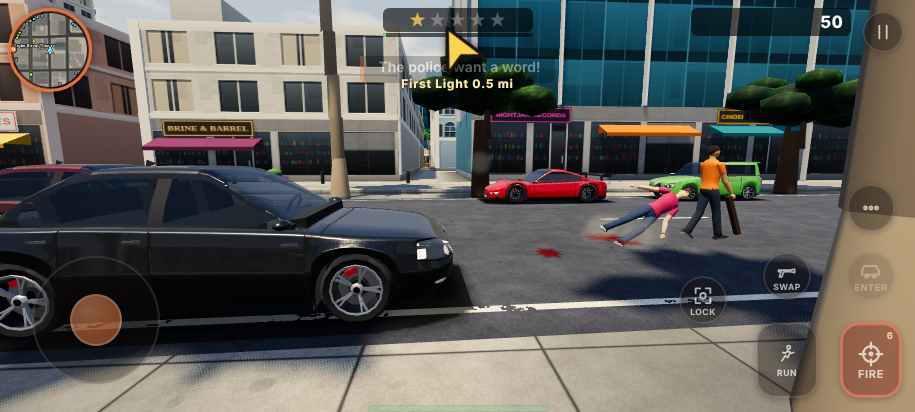
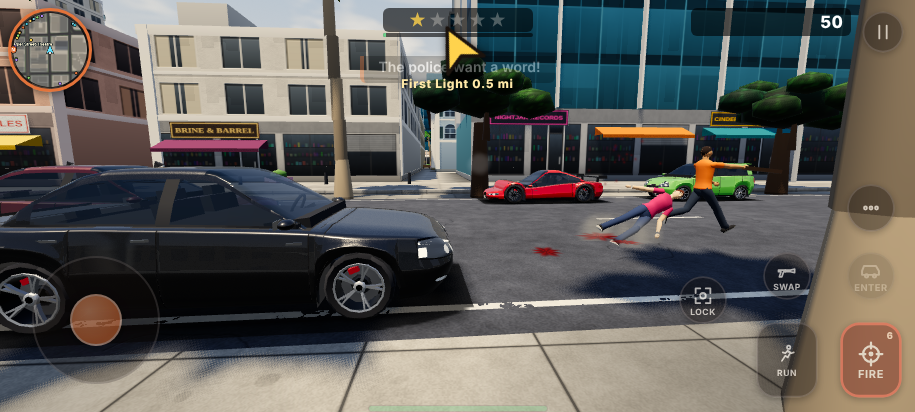
[wip] 0.5.0 work in progress
Claude-Session: https://claude.ai/code/session_018iGo17mtLFKMHzBd1Cq3Kh

diff --git a/src/render/carbody.js b/src/render/carbody.js
@@ -83,9 +83,9 @@ const STYLES = {
   },
   // Low mid-engine wedge: the cabin sits forward, wide hips, a wing.
   sports: {
-    pF: 4.5, pR: 6, flare: 0.06, q: 3.0, lean: [0.06, 0.04, 0.05, 0.1],
-    top: [[-0.5, 0.54], [-0.49, 0.6], [-0.46, 0.63], [-0.4, 0.64], [-0.3, 0.63], [-0.15, 0.6], [0.1, 0.5], [0.25, 0.46], [0.38, 0.42], [0.46, 0.38], [0.49, 0.34], [0.5, 0.3]],
-    belt: [[-0.5, 0.5], [-0.49, 0.57], [-0.46, 0.6], [-0.4, 0.61], [-0.25, 0.6], [-0.1, 0.57], [0.1, 0.48], [0.3, 0.43], [0.45, 0.36], [0.49, 0.32], [0.5, 0.28]],
+    pF: 4.5, pR: 6, flare: 0.06, q: 3.0, lean: [0.06, 0.04, 0.05, 0.1], valley: true,
+    top: [[-0.5, 0.54], [-0.49, 0.6], [-0.46, 0.63], [-0.4, 0.64], [-0.3, 0.63], [-0.15, 0.6], [0.1, 0.52], [0.25, 0.48], [0.38, 0.45], [0.46, 0.42], [0.49, 0.38], [0.5, 0.34]],
+    belt: [[-0.5, 0.5], [-0.49, 0.57], [-0.46, 0.6], [-0.4, 0.61], [-0.25, 0.6], [-0.1, 0.57], [0.1, 0.5], [0.3, 0.45], [0.45, 0.4], [0.49, 0.36], [0.5, 0.32]],
     bottom: [[-0.5, 0.2], [-0.46, 0.1], [0.44, 0.1], [0.5, 0.12]],
     gh: { xC: -0.33, xR0: -0.13, xR1: -0.02, xA: 0.2, roof: 1, base: 0.82, tumble: 0.55, crown: 0.03, side: [-0.27, 0.15], b: null, rear: true },
     seams: [0.15, -0.19], hood: 0.22, boot: -0.37, exhaust: { n: 2, z: 0.2 }, wing: true, skirt: true,
@@ -111,7 +111,7 @@ const STYLES = {
   // The secret car: a teardrop canopy far forward, a long tapering tail
   // with two fins.
   ghostwake: {
-    pF: 3.8, pR: 3.4, flare: 0.07, q: 2.8, lean: [0.05, 0.03, 0.06, 0.05],
+    pF: 3.8, pR: 3.4, flare: 0.07, q: 2.8, lean: [0.05, 0.03, 0.06, 0.05], valley: true,
     top: [[-0.5, 0.42], [-0.47, 0.5], [-0.4, 0.55], [-0.25, 0.58], [-0.1, 0.56], [0.1, 0.48], [0.3, 0.42], [0.45, 0.36], [0.5, 0.3]],
     belt: [[-0.5, 0.38], [-0.47, 0.46], [-0.4, 0.52], [-0.25, 0.55], [-0.1, 0.52], [0.1, 0.45], [0.3, 0.4], [0.45, 0.34], [0.5, 0.28]],
     bottom: [[-0.5, 0.18], [-0.45, 0.1], [0.44, 0.1], [0.5, 0.12]],
@@ -226,7 +226,10 @@ function shape(spec) {
   const ycBase = beltC ? (x) => beltC(x / L) * H
     : (x) => topC(x / L) * H - drop * Math.min(1, 0.4 + 0.6 * Math.min(1, planW(x) / (hw * 0.5)));
   const yc = (x) => Math.max(ycBase(x), need(x));
-  const top = beltC ? (x) => Math.max(topC(x / L) * H, yc(x) + 0.012) : (x) => Math.max(topC(x / L) * H, yc(x) - 0.1);
+  // S.valley: the bonnet may sit below the fender peaks (a dip between
+  // raised wheel arches) instead of being lifted with them.
+  const top = beltC ? (S.valley ? (x) => Math.max(topC(x / L) * H, ycBase(x) + 0.012, yc(x) - 0.2) : (x) => Math.max(topC(x / L) * H, yc(x) + 0.012))
+    : (x) => Math.max(topC(x / L) * H, yc(x) - 0.1);
   const bottom = (x) => {
     let y = botC(x / L) * H;
     for (const wx of wheels) {
@@ -392,7 +395,9 @@ function ghShape(sh) {
   const crown = g.crown * sh.H;
   const roofY = g.roof * sh.H - crown;
   const baseW = (x) => sh.planW(x) * sh.shoulder * g.base;
-  const baseY = (x) => surfY(sh, x, baseW(x)) - 0.03;
+  // On a valley bonnet the deck dips toward the middle: the glass starts
+  // at the lower of the two so no gap opens under the windscreen.
+  const baseY = (x) => Math.min(surfY(sh, x, baseW(x)), sh.top(x)) - 0.03;
   const yA = baseY(xA), yC = baseY(xC);
   const roofC = curve([
     [xC, yC], [xC + (xR0 - xC) * 0.5, yC + (roofY - yC) * 0.62], [xR0, roofY - 0.012],
@@ -662,7 +667,7 @@ const FACES = {
     plateF: 0.24, plateR: 0.45,
   },
   compact: {
-    head: { q: [0.42, 0.97], f: [0.6, 0.9], e: 3, slant: 0.12, taper: 0.5, bulge: 0.01, lift: 0.006, ind: 0.9, drl: 'L' },
+    head: { q: [0.44, 0.97], f: [0.6, 0.88], e: 3.4, slant: 0.06, taper: 0.25, bulge: 0.01, lift: 0.006, ind: 0.9 },
     grille: { q: [-0.4, 0.4], f: [0.46, 0.64], e: 6, lift: 0.004, slats: 2, slatHex: 0x2a2c30 },
     intake: { q: [-0.64, 0.64], f: [0.08, 0.32], e: 6, lift: 0.003 },
     tail: { q: [0.5, 0.985], f: [0.62, 0.9], e: 3.5, taper: 0.2, bulge: 0.008, lift: 0.006, rev: 0.66, bar: false },
